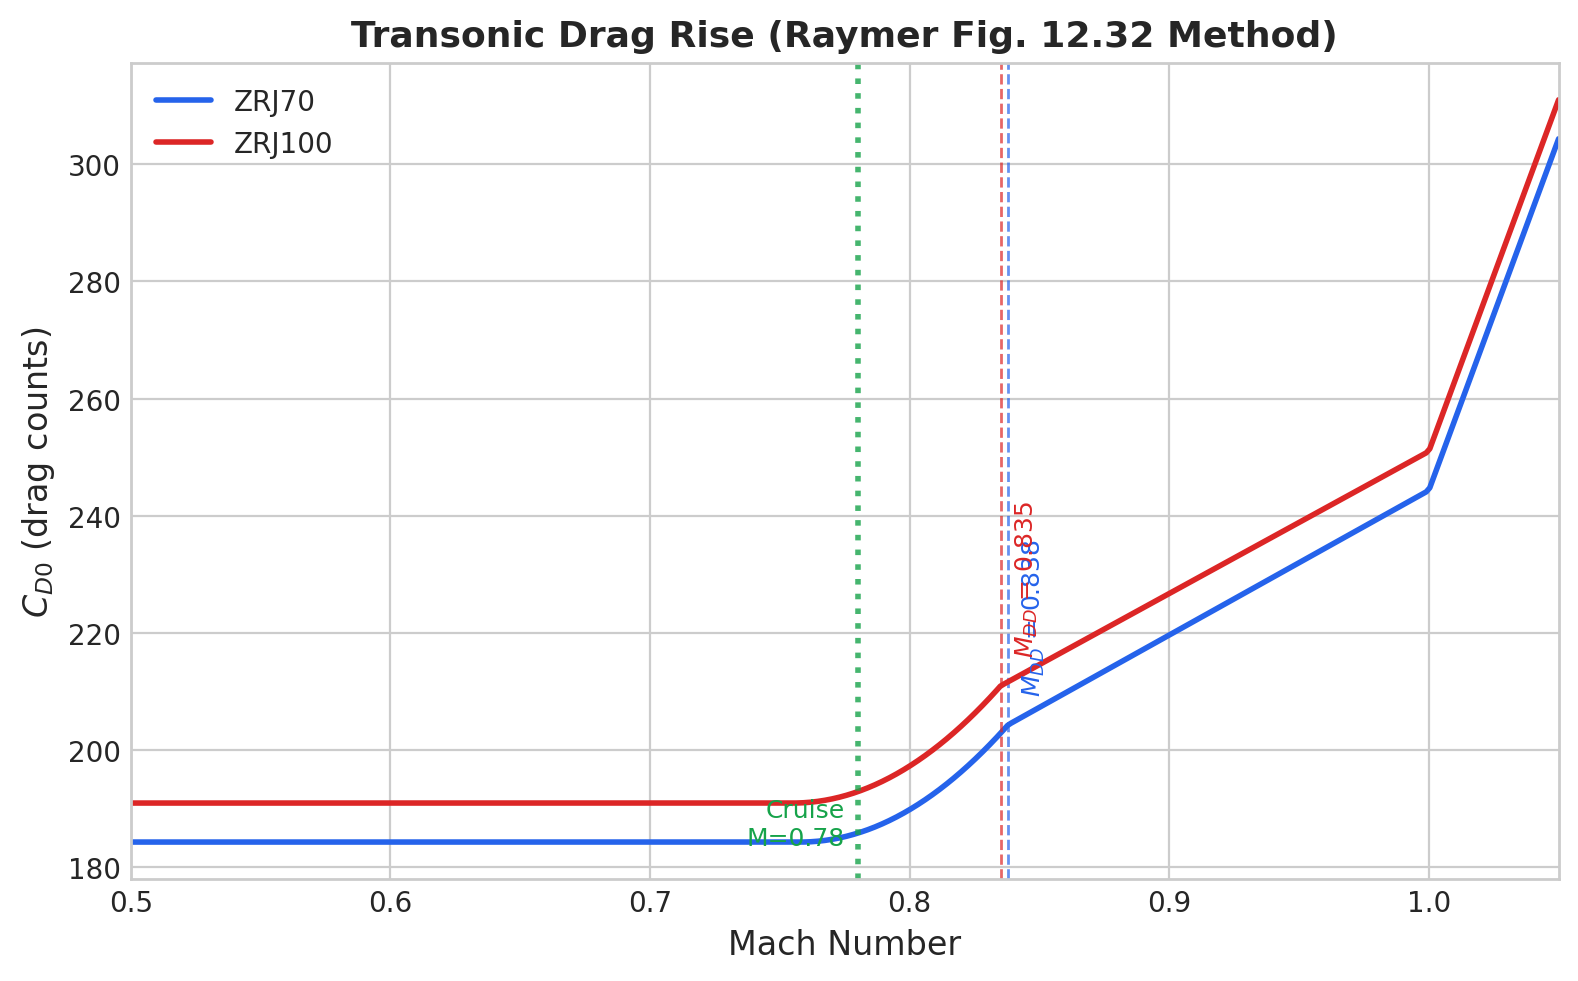
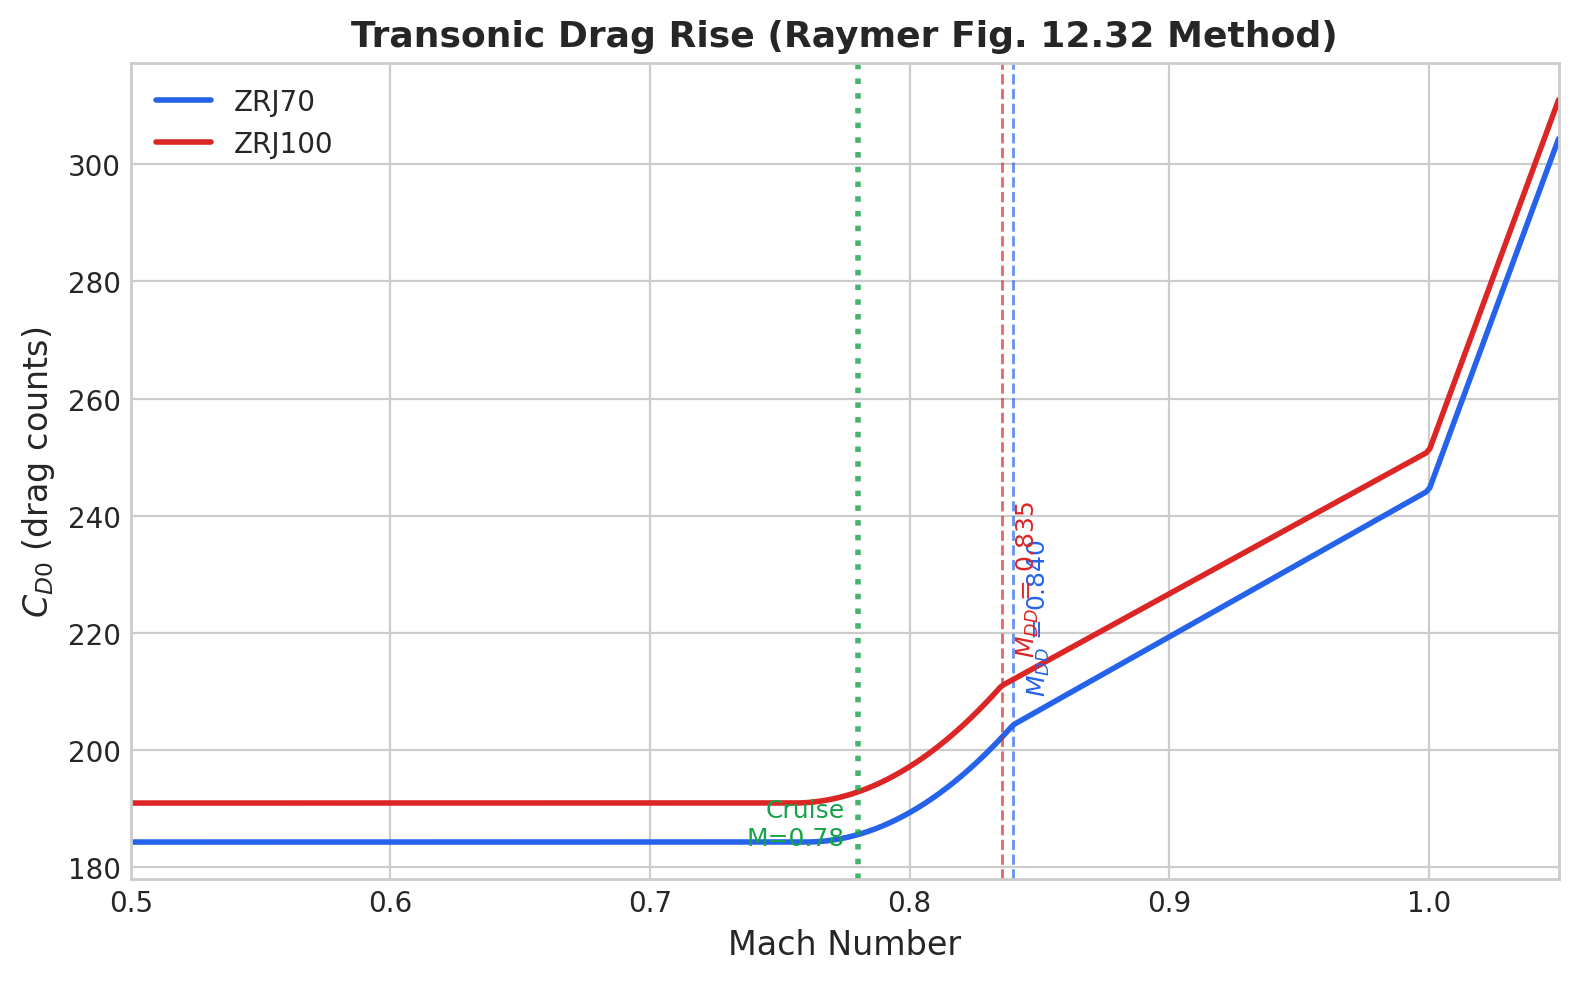
Correct MTOW to match updated payload (ZRJ70: 85,015 lb, ZRJ100: 93,255 lb)
ZRJ70 payload corrected from 23,347 to 20,347 lb in mission analysis,
yielding new solved W0. Regenerated charts and updated README tables.

diff --git a/data/ZRJ100.py b/data/ZRJ100.py
@@ -28,7 +28,7 @@ AIRCRAFT = {
     "fuse_length": 110.2,         # ft, fuselage length
 
     # --- Weights ---
-    "MTOW": 93875.0,              # lbs
+    "MTOW": 93255.0,              # lbs
 
     # --- Horizontal tail (T-tail) ---
     "S_htail": 276.92,            # ft^2, htail reference area

diff --git a/data/ZRJ70.py b/data/ZRJ70.py
@@ -28,7 +28,7 @@ AIRCRAFT = {
     "fuse_length": 96.7,          # ft, fuselage length
 
     # --- Weights ---
-    "MTOW": 88635.0,              # lbs
+    "MTOW": 85015.0,              # lbs
 
     # --- Horizontal tail (T-tail) ---
     "S_htail": 276.92,            # ft^2, htail reference area

diff --git a/README.md b/README.md
@@ -74,16 +74,16 @@ includes the Raymer equation number in a comment.
 | e (LE suction) | 0.727 | 0.727 | Eq. 12.57 — recommended |
 | K (LE suction) | 0.0483 | 0.0483 | Recommended for sizing |
 | (L/D)_max | 16.76 | 16.46 | With LE suction K |
-| L/D cruise | 14.54 | 14.79 | M 0.78 at 35,000 ft |
-| CL cruise | 0.3581 | 0.3922 | W_cruise / (q * S_ref) |
+| L/D cruise | 14.64 | 14.88 | M 0.78 at 35,000 ft |
+| CL cruise | 0.3628 | 0.3980 | W_cruise / (q * S_ref) |
 | CLa | 5.99 /rad | 5.99 /rad | At cruise Mach |
 | CLmax clean | 1.161 | 1.161 | Eq. 12.15 |
 | CLmax takeoff | 1.990 | 1.990 | Double slotted flaps, no slats |
 | CLmax landing | 2.624 | 2.624 | Double slotted flaps + slats |
 | MDD | 0.839 | 0.836 | Korn equation (Eq. 12.46) |
-| T_required | 5,309 lbs | 5,719 lbs | Total cruise thrust (T = D) |
-| T per engine | 2,654 lbs | 2,859 lbs | x2 engines |
-| T/W_cruise | 0.0688 | 0.0676 | Thrust-to-weight at cruise |
+| T_required | 5,344 lbs | 5,766 lbs | Total cruise thrust (T = D) |
+| T per engine | 2,672 lbs | 2,883 lbs | x2 engines |
+| T/W_cruise | 0.0683 | 0.0672 | Thrust-to-weight at cruise |
 
 ## Stability & Control Values
 
@@ -99,8 +99,8 @@ XFLR5 results for improved accuracy.
 | Cm_0_ac | −0.0618 \* | −0.0618 \* | 3D correction of 2D cm_0 |
 | CLmax (clean) | 1.161 | 1.161 | Eq. 12.15 |
 | α_CLmax | 9.1° \* | 9.1° \* | Depends on α_0L |
-| CL_cruise | 0.3581 | 0.3922 | W_cruise / (q × S_ref) |
-| α_CL_cruise | 1.43° \* | 1.75° \* | Depends on α_0L |
+| CL_cruise | 0.3628 | 0.3980 | W_cruise / (q × S_ref) |
+| α_CL_cruise | 1.47° \* | 1.81° \* | Depends on α_0L |
 
 ### Horizontal Tail (AR = 3.94)
 
